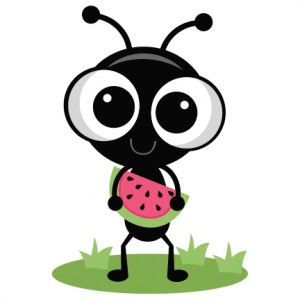
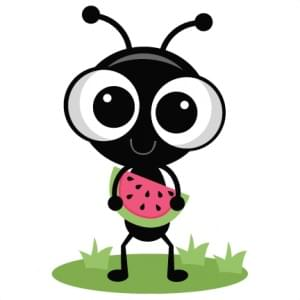
Add gulp & minify images

diff --git a/gulpfile.js b/gulpfile.js
@@ -1,0 +1,12 @@
+#!/usr/bin/env node
+
+"use strict";
+
+const { src, dest } = require('gulp');
+const imagemin = require('gulp-imagemin');
+
+exports.default = () => (
+    src(['./**/*.{jpg,jpeg,png}', '!node_modules/**'])
+        .pipe(imagemin())
+        .pipe(dest('.'))
+);
